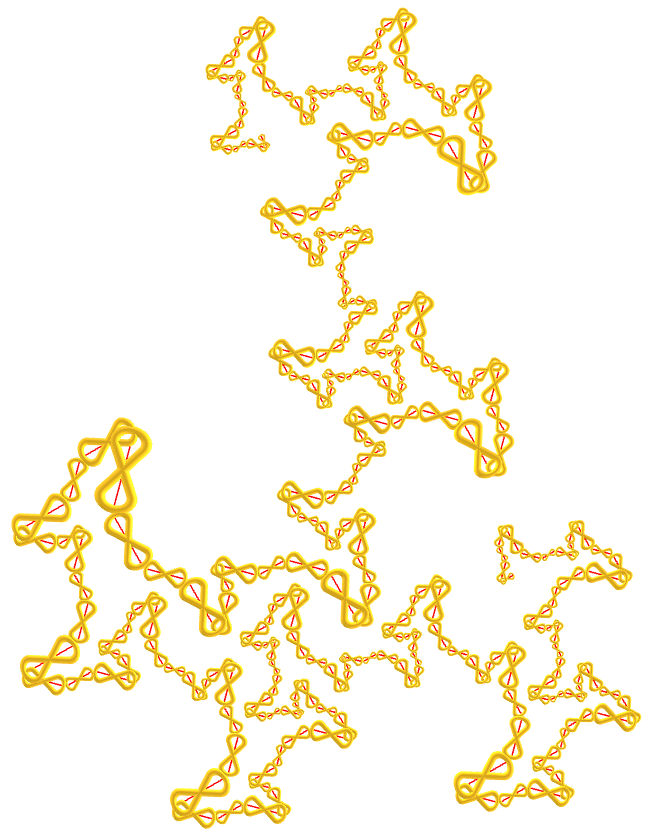
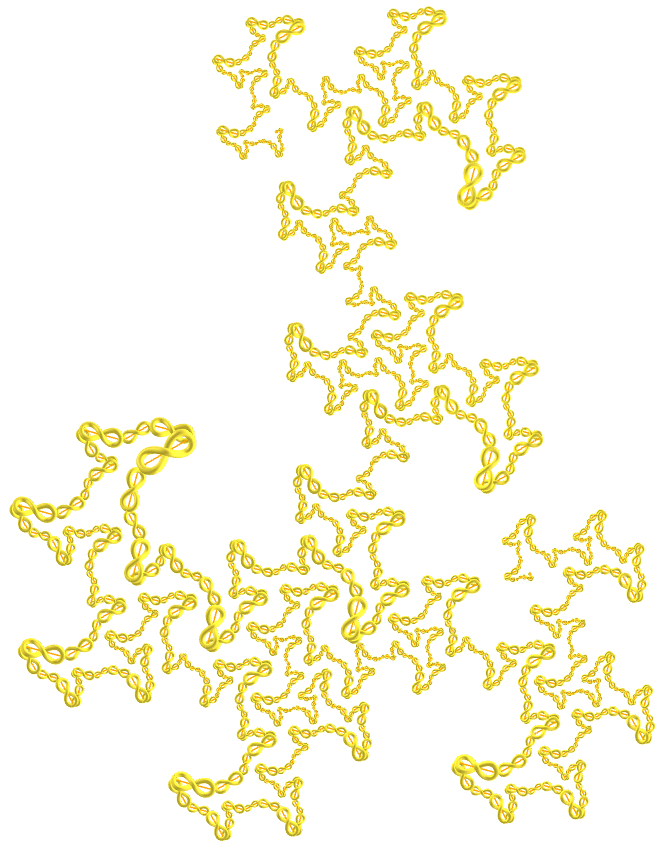
update

Changed region(s): [[0.0, 0.0, 0.9801, 0.9976]]

diff --git a/dragoneve/vr/curve101.htm b/dragoneve/vr/curve101.htm
@@ -17,16 +17,16 @@
 			<a-mixin id="p1a" position="-2.12 1.06 0" rotation="0 0 90" mixin="sc"></a-mixin>
 			<a-mixin id="p2a" position="-1.06 1.06 0" rotation="0 0 135"></a-mixin>
 			<a-mixin id="p3a" position="1.06 0 0" rotation="0 0 0" mixin="sc"></a-mixin>
-			<a-mixin id="sc" scale="0.3466 0.3466 0.3466"></a-mixin>
+			<a-mixin id="sc" scale="0.4827 0.4827 0.4827"></a-mixin>
 			<!--SCALE = scale de MTL4 * 0.7071 -->
-			<a-mixin scale="2.04 2.04 2.04" rotation="0 0 0" id="ar" line__0="start: -1.5 0 0; end: 1.5 0 0; color: red"></a-mixin><!--SCALE = inverso do scale de MTL4 -->
+			<a-mixin scale="1.465 1.465 1.465" rotation="0 0 0" id="ar" line__0="start: -1.5 0 0; end: 1.5 0 0; color: orange"></a-mixin><!--SCALE = inverso do scale de MTL4 -->
 			
-			<a-mixin id="mtl4" scale="0.4902 0.4902 0.4902" gltf-model="#aq"></a-mixin>
+			<a-mixin id="mtl4" scale="0.6826 0.6826 0.6826" gltf-model="#aq"></a-mixin>
 			<!--SCALE = scale original * 0.618919 -->
 			<a-mixin id="mtl1" material="color: #5cb404; side:double;">
 			<a-asset-item id="mt" src="https://paulohscwb.github.io/polyhedra2/fractalnonconvex/vr/outros/c1b.mtl"></a-asset-item>
 			<a-asset-item id="mt1" src="https://paulohscwb.github.io/polyhedra2/fractalnonconvex/vr/outros/c2.mtl"></a-asset-item>
-			<a-asset-item id="aq" src="https://paulohscwb.github.io/SacredGeometry/flower/vr/outros/lemniscata.glb"></a-asset-item>
+			<a-asset-item id="aq" src="https://paulohscwb.github.io/SacredGeometry/flower/vr/outros/lemniscata2.glb"></a-asset-item>
 		</a-assets>
 		<a-light type="point" color="yellow" intensity="1" position="0 0 0"></a-light>
 		<a-entity scale="2.2 2.2 2.2" rotation="0 0 120" position="0 1 0">
